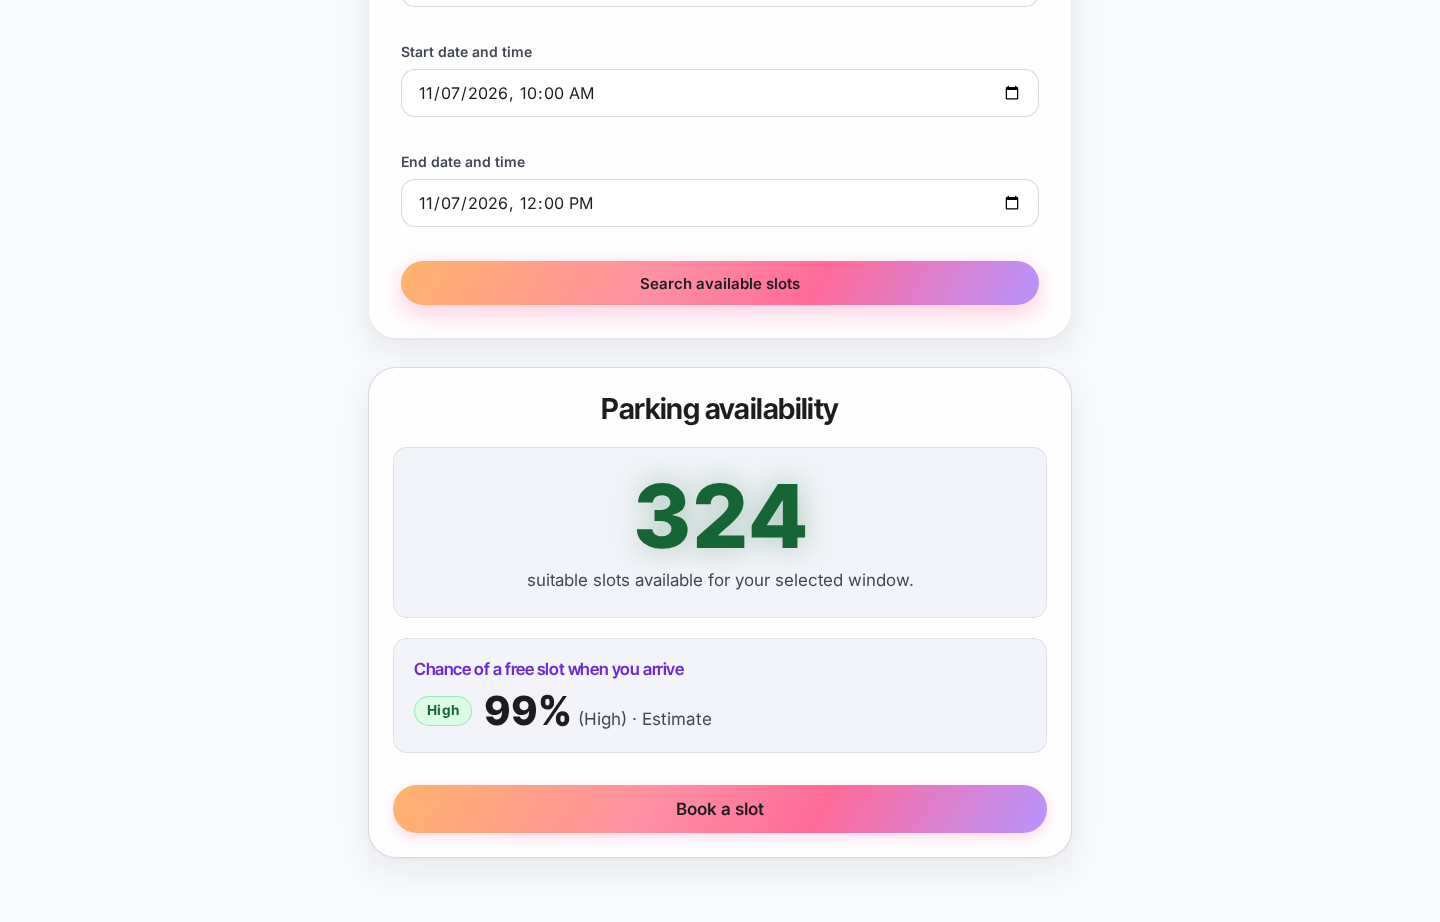
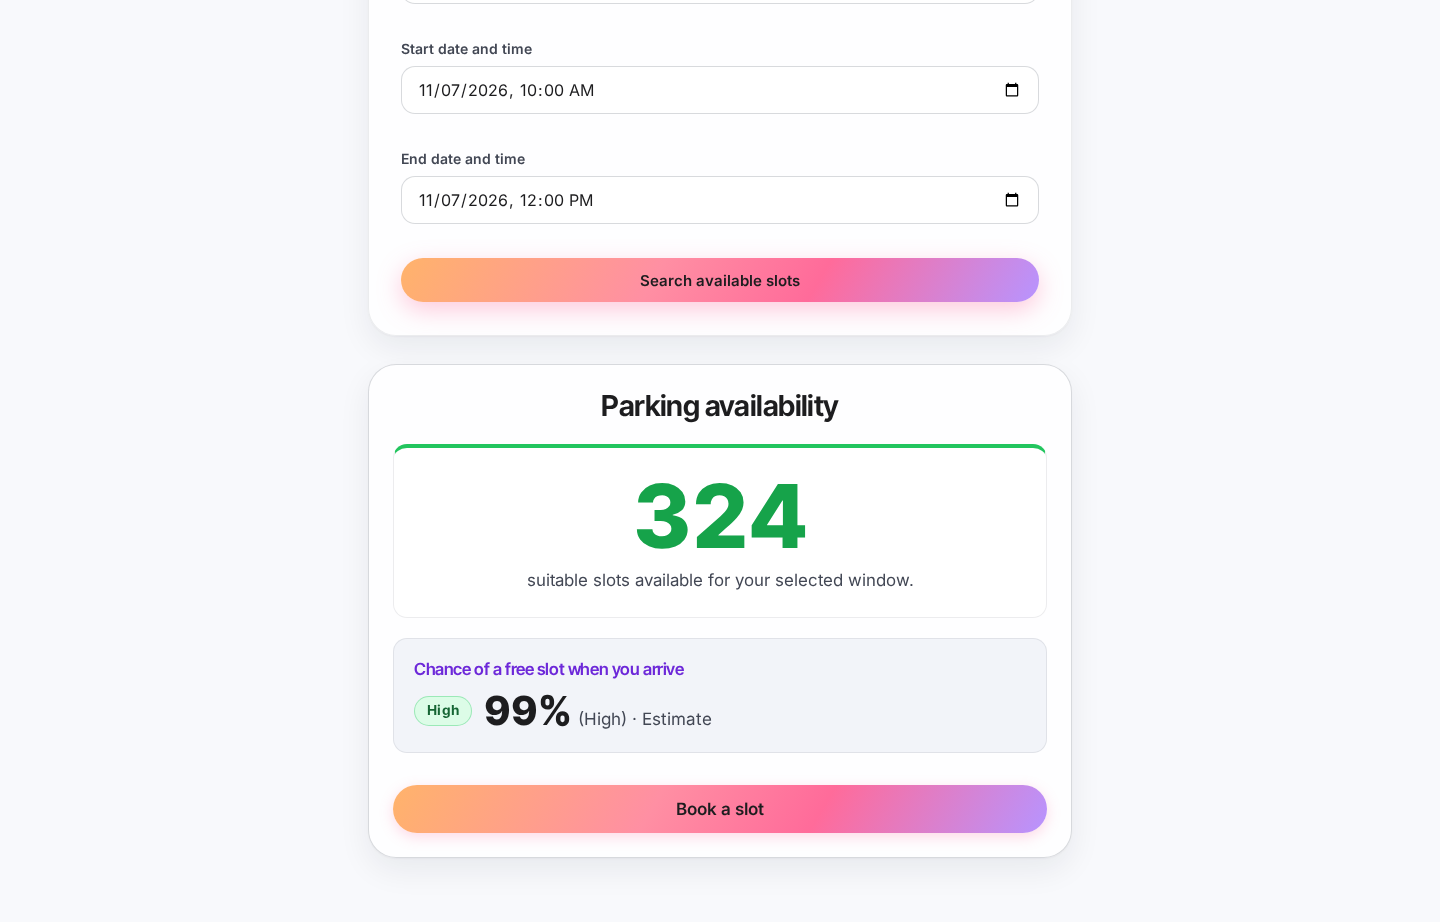
fix: brighten slot count tile

diff --git a/static/css/pages/driver.css b/static/css/pages/driver.css
@@ -277,3 +277,14 @@
     padding: 0.75rem 0.65rem;
   }
 }
+
+/* Daylight: the slot count is a bright green on a white tile (large text, 3.3:1). */
+.search-result-hero__count-box {
+  background: var(--surface-solid);
+  border-top: 4px solid var(--green-fill);
+}
+
+.search-result-hero__huge-number {
+  color: var(--green-bright);
+  text-shadow: none;
+}
